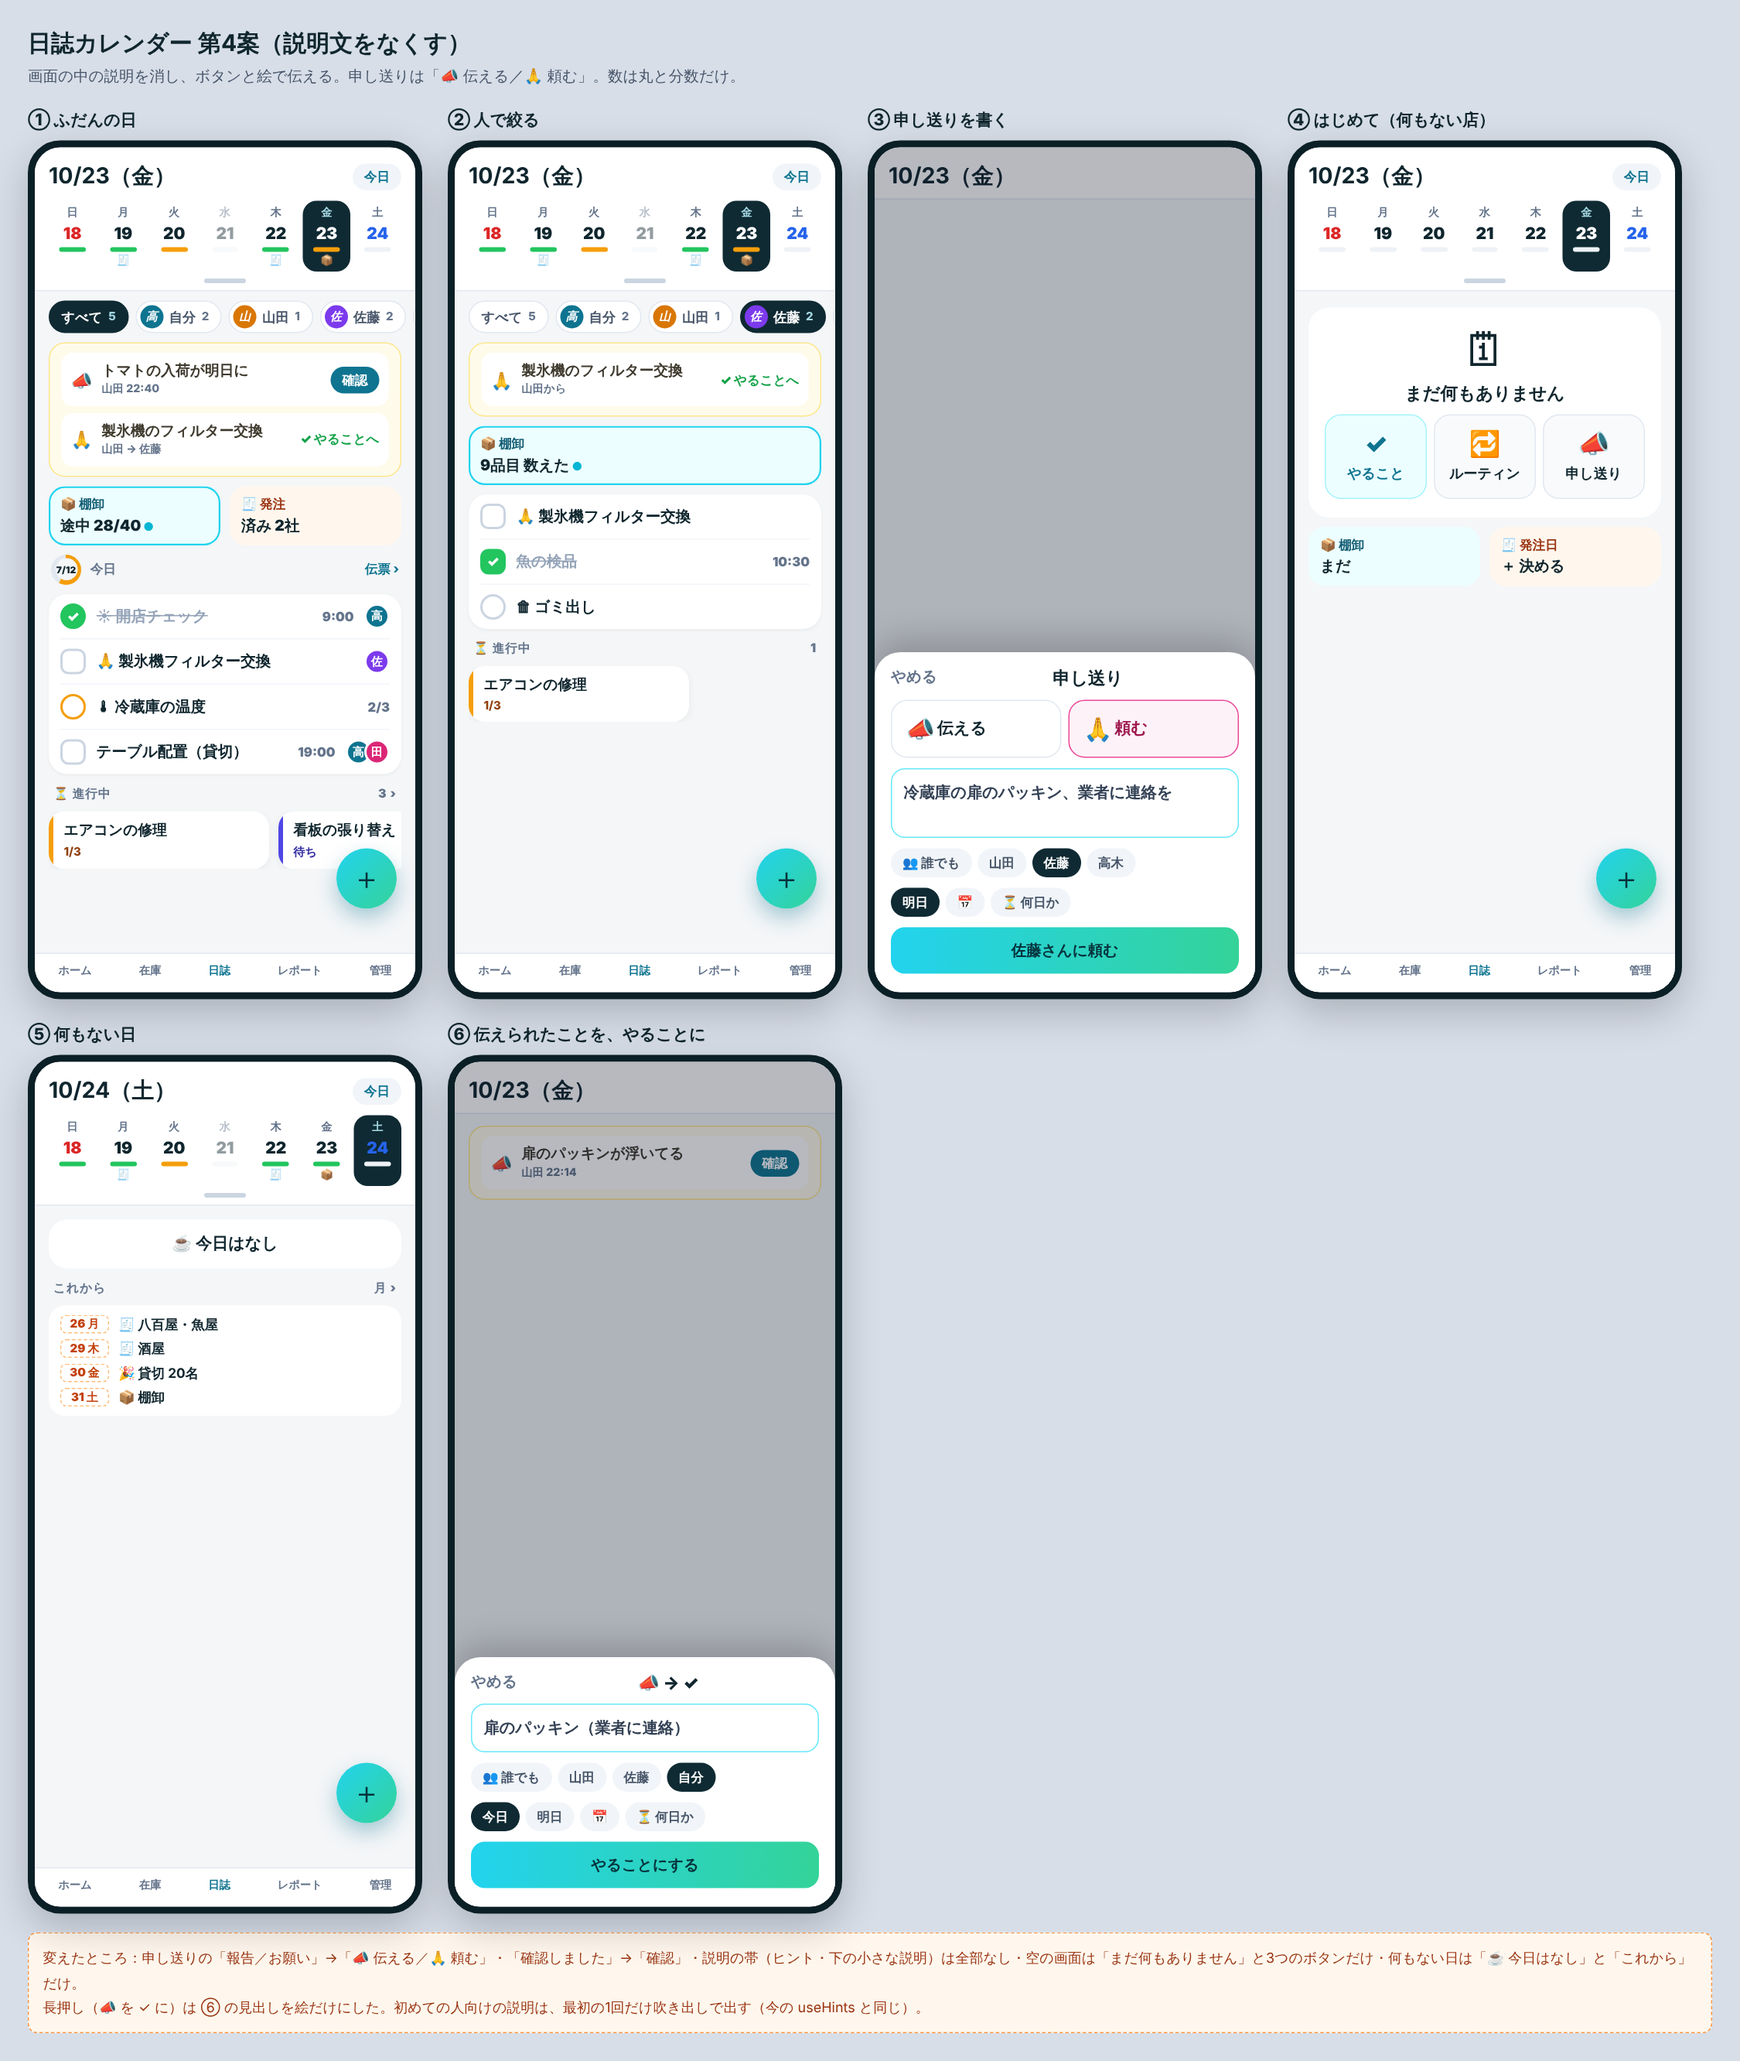
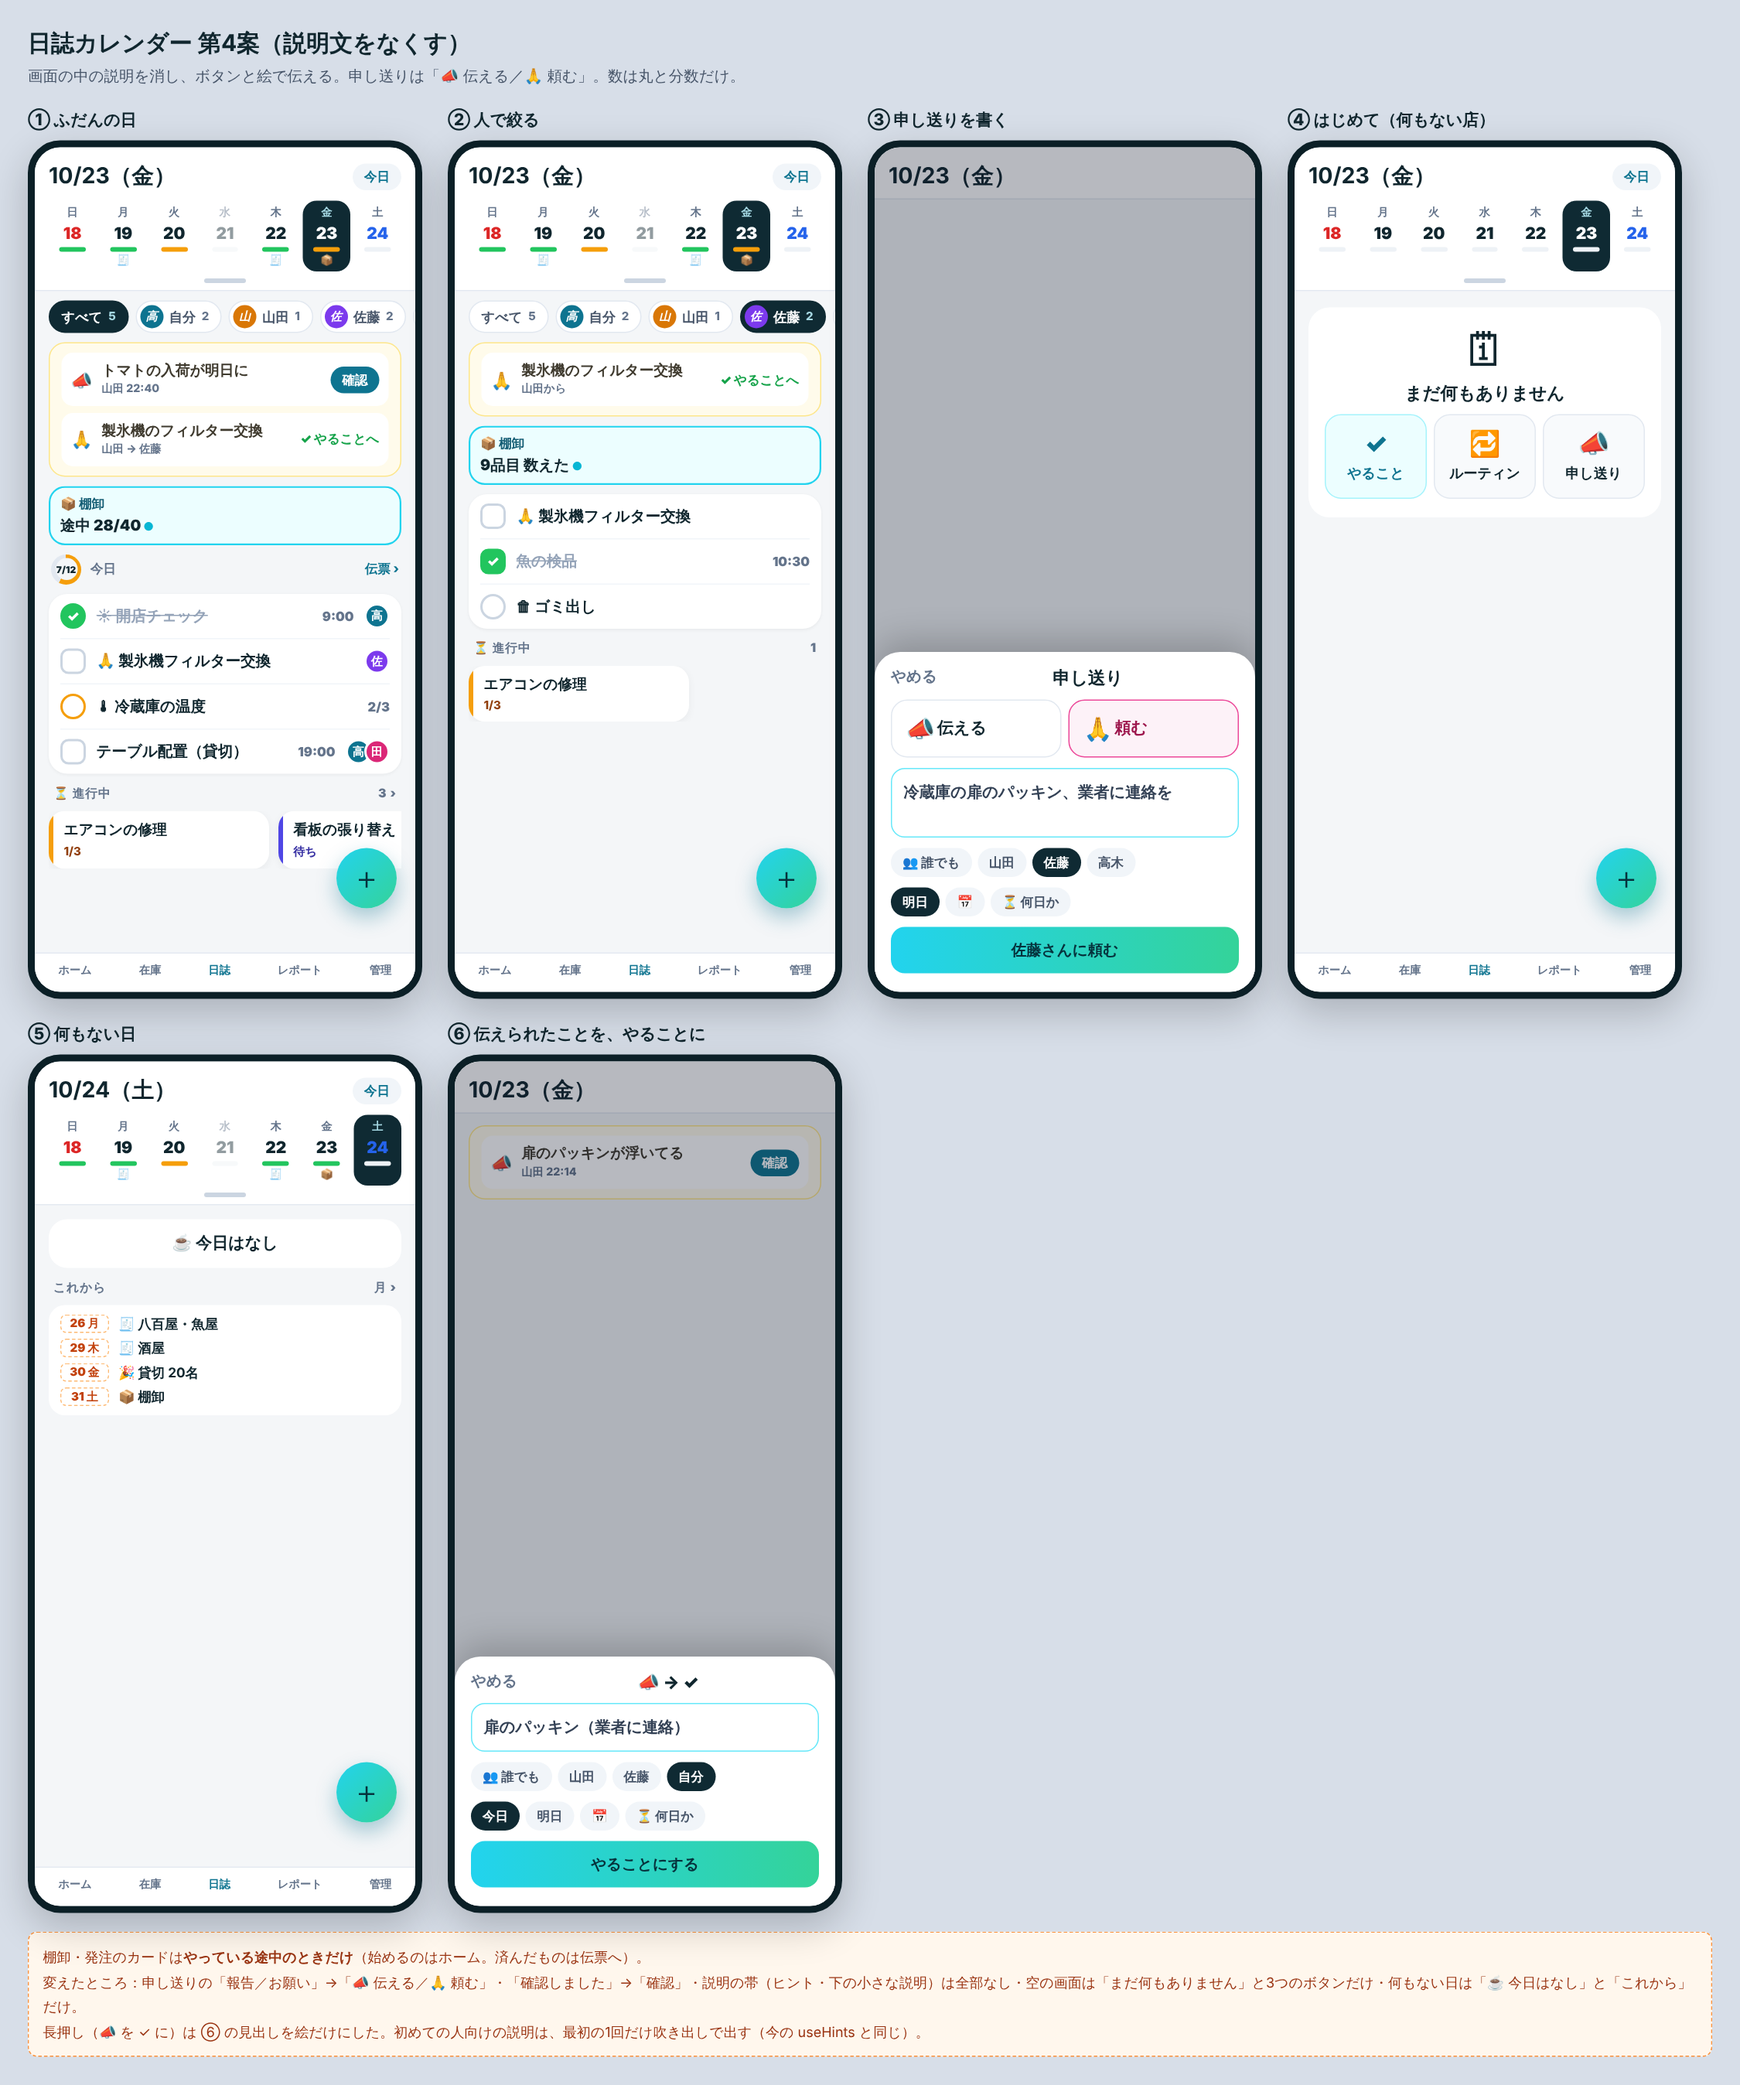
モック修正: 日誌の棚卸・発注は途中のときだけ（v0.170.7）
Claude-Session: https://claude.ai/code/session_01JbiH9vN7UTCSfVeiipQLck

diff --git a/docs/mocks/journal-calendar-v4.html b/docs/mocks/journal-calendar-v4.html
@@ -107,7 +107,7 @@ h1{font-size:20px;margin-bottom:4px}.lead{font-size:13px;color:#475569;margin-bo
   <div class="hm"><em>📣</em><p>トマトの入荷が明日に<span class="who">山田 22:40</span></p><span class="btn">確認</span></div>
   <div class="hm"><em>🙏</em><p>製氷機のフィルター交換<span class="who">山田 → 佐藤</span></p><span class="done">✓ やることへ</span></div>
  </div>
- <div class="biz"><div class="bz live">📦 棚卸<b>途中 28/40</b></div><div class="bz or">🧾 発注<b>済み 2社</b></div></div>
+ <div class="biz"><div class="bz live">📦 棚卸<b>途中 28/40</b></div></div>
  <div class="sumr"><span class="mini" style="background:conic-gradient(var(--ye) 0 58%,#e2e8f0 0)"><span>7/12</span></span>今日<a>伝票 ›</a></div>
  <div class="list">
   <div class="it done"><span class="ck r ok">✓</span><div class="tx"><b>☀ 開店チェック</b></div><span class="cnt">9:00</span><div class="avs"><span class="av a">高</span></div></div>
@@ -137,7 +137,7 @@ h1{font-size:20px;margin-bottom:4px}.lead{font-size:13px;color:#475569;margin-bo
 </div><div class="nav"><span>ホーム</span><span>在庫</span><span class="on">日誌</span><span>レポート</span><span>管理</span></div></div></div><div class="col"><div class="cap">④ はじめて（何もない店）</div><div class="phone"><div class="top"><div class="th"><b>10/23（金）</b><div class="r"><span>今日</span></div></div><div class="wk"><div class="sun">日<b>18</b><i style="background:#eef2f6"></i><em></em></div><div class="">月<b>19</b><i style="background:#eef2f6"></i><em></em></div><div class="">火<b>20</b><i style="background:#eef2f6"></i><em></em></div><div class="">水<b>21</b><i style="background:#eef2f6"></i><em></em></div><div class="">木<b>22</b><i style="background:#eef2f6"></i><em></em></div><div class=" on">金<b>23</b><i style="background:#eef2f6"></i><em></em></div><div class="sat">土<b>24</b><i style="background:#eef2f6"></i><em></em></div></div><div class="pull"></div></div><div class="body" style="padding-top:14px">
  <div class="empty"><div class="ill">🗓</div><b>まだ何もありません</b>
   <div class="ico"><span class="main"><em>✓</em>やること</span><span><em>🔁</em>ルーティン</span><span><em>📣</em>申し送り</span></div></div>
- <div class="biz"><div class="bz">📦 棚卸<b>まだ</b></div><div class="bz or">🧾 発注日<b>＋ 決める</b></div></div>
+ 
 </div><div class="fab">＋</div><div class="nav"><span>ホーム</span><span>在庫</span><span class="on">日誌</span><span>レポート</span><span>管理</span></div></div></div><div class="col"><div class="cap">⑤ 何もない日</div><div class="phone"><div class="top"><div class="th"><b>10/24（土）</b><div class="r"><span>今日</span></div></div><div class="wk"><div class="sun">日<b>18</b><i style="background:var(--gr)"></i><em></em></div><div class="">月<b>19</b><i style="background:var(--gr)"></i><em>🧾</em></div><div class="">火<b>20</b><i style="background:var(--ye)"></i><em></em></div><div class="off">水<b>21</b><i style="background:#eef2f6"></i><em></em></div><div class="">木<b>22</b><i style="background:var(--gr)"></i><em>🧾</em></div><div class="">金<b>23</b><i style="background:var(--gr)"></i><em>📦</em></div><div class="sat on">土<b>24</b><i style="background:#eef2f6"></i><em></em></div></div><div class="pull"></div></div><div class="body" style="padding-top:12px">
  <div class="quiet"><b>☕ 今日はなし</b></div>
  <div class="lh"><span>これから</span><span>月 ›</span></div>
@@ -154,5 +154,5 @@ h1{font-size:20px;margin-bottom:4px}.lead{font-size:13px;color:#475569;margin-bo
  <div class="pills"><span class="on">今日</span><span>明日</span><span>📅</span><span>⏳ 何日か</span></div>
  <div class="go"><span>やることにする</span></div>
 </div><div class="nav"><span>ホーム</span><span>在庫</span><span class="on">日誌</span><span>レポート</span><span>管理</span></div></div></div></div>
-<p class="note2">変えたところ：申し送りの「報告／お願い」→「📣 伝える／🙏 頼む」・「確認しました」→「確認」・説明の帯（ヒント・下の小さな説明）は全部なし・空の画面は「まだ何もありません」と3つのボタンだけ・何もない日は「☕ 今日はなし」と「これから」だけ。<br>
+<p class="note2">棚卸・発注のカードは<b>やっている途中のときだけ</b>（始めるのはホーム。済んだものは伝票へ）。<br>変えたところ：申し送りの「報告／お願い」→「📣 伝える／🙏 頼む」・「確認しました」→「確認」・説明の帯（ヒント・下の小さな説明）は全部なし・空の画面は「まだ何もありません」と3つのボタンだけ・何もない日は「☕ 今日はなし」と「これから」だけ。<br>
 長押し（📣 を ✓ に）は ⑥ の見出しを絵だけにした。初めての人向けの説明は、最初の1回だけ吹き出しで出す（今の useHints と同じ）。</p></body></html>

diff --git a/docs/quality-foundation/session-log.md b/docs/quality-foundation/session-log.md
@@ -2,6 +2,12 @@
 
 新しい記録を上に追加します。会話の全文ではなく、再開に必要な事実だけを残します。
 
+## 2026-10-25 — version 0.170.7 / モック修正: 棚卸・発注は途中のときだけ
+
+User決定: 日誌の棚卸・発注のカードは進行中のときだけ。始めるのはホームのボタンなので、「まだ」「発注日を決める」は日誌に不要。
+- `journal-calendar-v4`: ①の発注カード（済み）を外す（済んだものは伝票）・④の棚卸/発注カードを外す。
+- version: 0.170.6 → **0.170.7**（docsのみ）。
+
 ## 2026-10-25 — version 0.170.6 / モック: 日誌カレンダー 第4案（説明文をなくす・未実装）
 
 User: 説明文が多い。できるだけ端的に、ボタンの中で機能を伝えてシンプルに。
